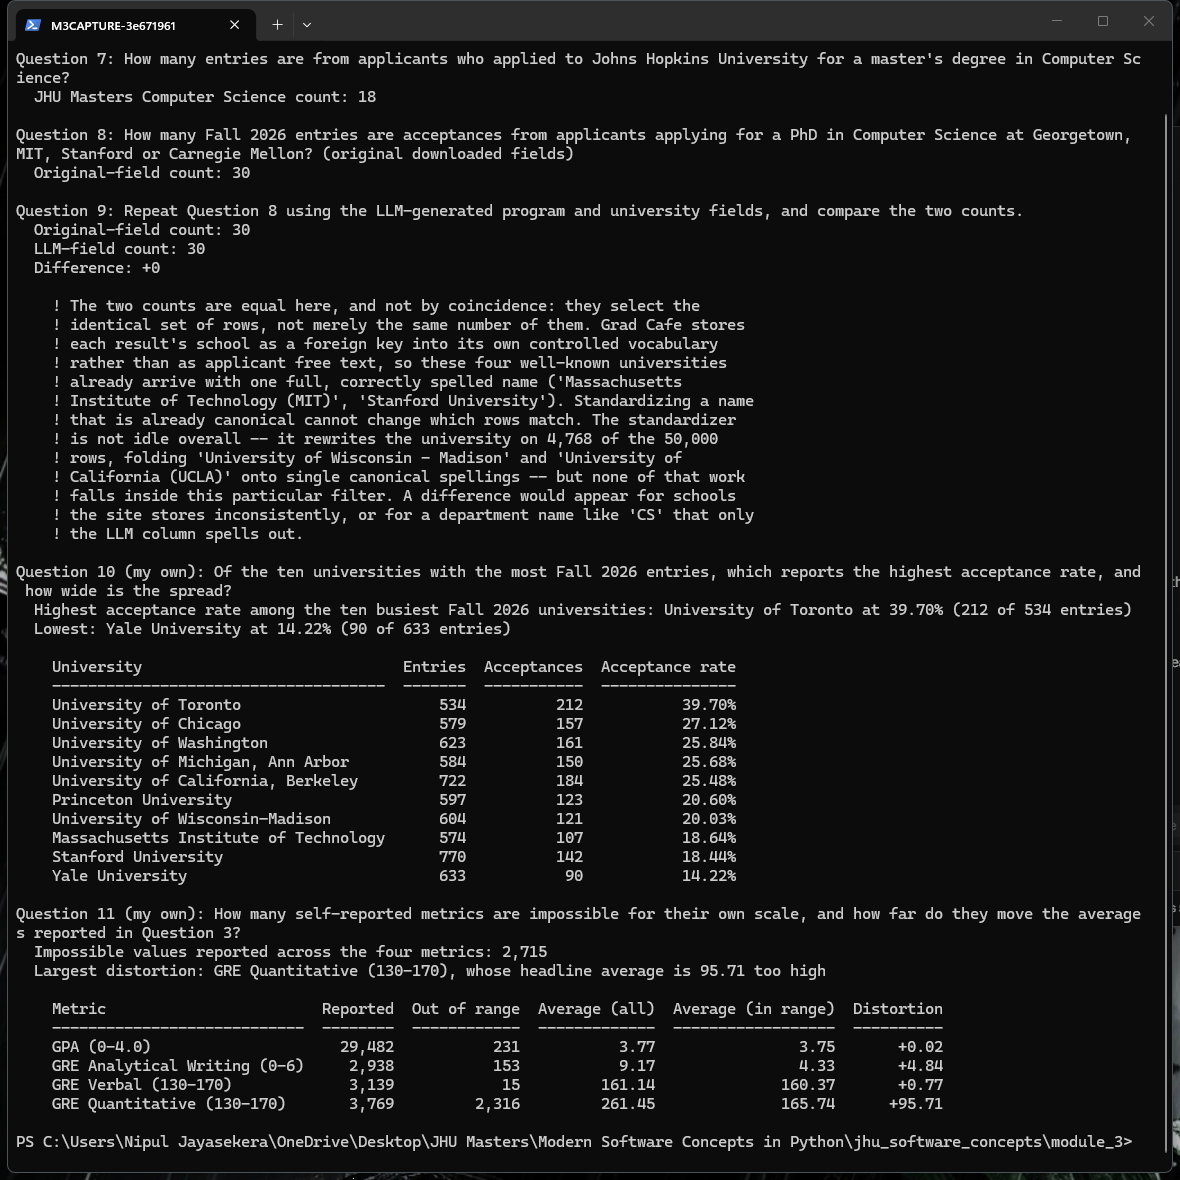
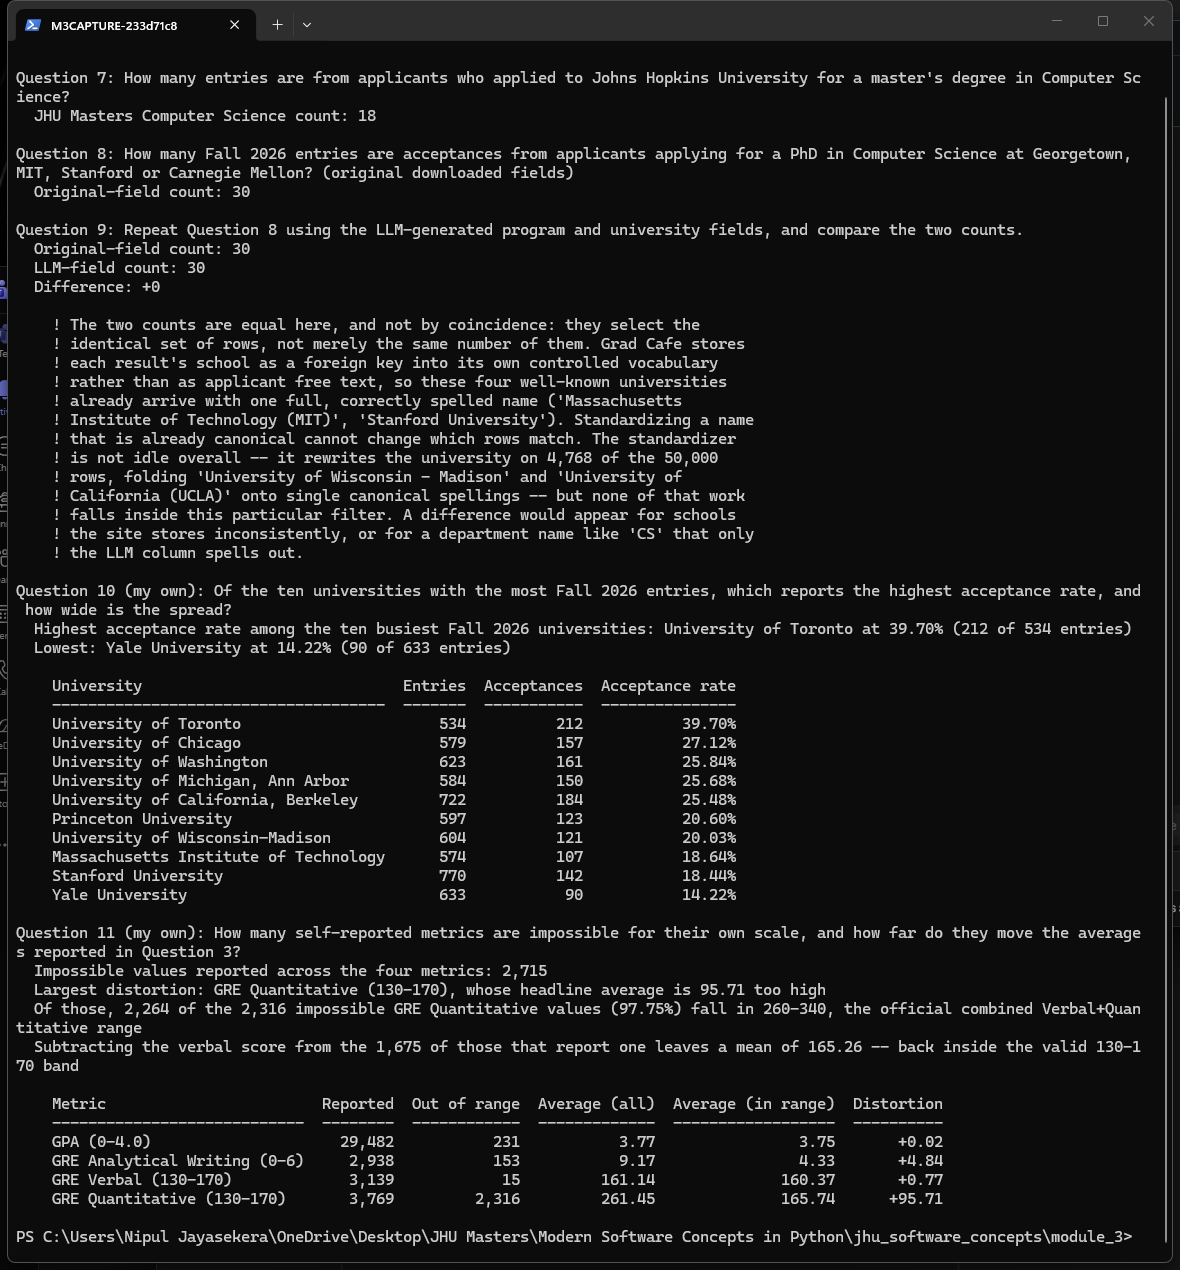
prove the impossible GRE scores are mis-entered totals
The GRE reports Verbal and Quantitative on 130-170 each and a combined
Verbal+Quantitative total on 260-340. That last range is exactly where the
second mode of the Quantitative column sits, which turns what was an
inference into something testable.

Question 11 now runs a second statement to test it, and both predictions
hold: 2,264 of the 2,316 impossible values (97.75%) land inside the
official 260-340 total band, and of the 1,675 that also report a verbal
score separately, subtracting it leaves a mean of 165.26 -- back inside
the legal 130-170 range, and within a point of the 165.74 mean of values
that were never out of range at all. If the column really held section
scores that subtraction would produce nonsense; instead it reconstructs a
plausible score. Only 52 values (1.4%) resist the explanation, and those
are obvious junk: 4.0, 999, 370.

So the Question 3 caveat no longer asserts the diagnosis, it cites the
scale and points at the evidence. limitations.pdf makes the same argument
from figures queried live rather than written down, so a later pull cannot
leave the essay claiming a number that has stopped being true.

The essay layout was retuned to keep the two required paragraphs on one
page now that it carries the extra evidence.

Changed region(s): [[0.0, 0.0, 1.0, 1.0], [0.7017, 0.1525, 0.8542, 0.1831], [0.5186, 0.1525, 0.6407, 0.1831]]

diff --git a/module_3/tools/build_pdfs.py b/module_3/tools/build_pdfs.py
@@ -90,11 +90,12 @@ def _styles() -> Dict[str, ParagraphStyle]:
             "caveat", parent=base["Normal"], fontSize=9, leading=13.2,
             textColor=colors.HexColor("#7c3a06"), alignment=TA_JUSTIFY,
         ),
-        # Sized so the two required paragraphs sit on a single page rather
-        # than spilling four lines onto a second one.
+        # Sized so the two required paragraphs sit on a single page rather than
+        # spilling a few lines onto a second one. Re-check this if the essay
+        # grows: it was retuned once when the GRE evidence was added to it.
         "essay": ParagraphStyle(
-            "essay", parent=base["Normal"], fontSize=10, leading=15.2,
-            textColor=INK, alignment=TA_JUSTIFY, spaceAfter=11,
+            "essay", parent=base["Normal"], fontSize=9.6, leading=14.1,
+            textColor=INK, alignment=TA_JUSTIFY, spaceAfter=10,
         ),
     }
 
@@ -181,6 +182,43 @@ def _footer(canvas: Any, doc: Any) -> None:
     canvas.drawString(1 * inch, 0.6 * inch, "{0} ({1})".format(AUTHOR, JHED))
     canvas.drawRightString(7.5 * inch, 0.6 * inch, "Page {0}".format(doc.page))
     canvas.restoreState()
+
+
+def _gre_diagnosis() -> dict:
+    """Live figures for the combined-total diagnosis quoted in limitations.pdf.
+
+    Queried rather than written down, so a Pull Data that changes the data
+    cannot leave the essay asserting a number that is no longer true.
+    """
+    import psycopg
+
+    with psycopg.connect(**db_config.connect_kwargs()) as connection:
+        with connection.cursor() as cursor:
+            cursor.execute(
+                """
+                SELECT COUNT(*) FILTER (WHERE gre IS NOT NULL
+                                          AND (gre < 130 OR gre > 170)),
+                       COUNT(*) FILTER (WHERE gre BETWEEN 260 AND 340),
+                       COUNT(*) FILTER (WHERE gre BETWEEN 260 AND 340
+                                          AND gre_v IS NOT NULL),
+                       ROUND(AVG(gre - gre_v) FILTER (
+                                 WHERE gre BETWEEN 260 AND 340
+                                   AND gre_v IS NOT NULL)::numeric, 2)
+                FROM applicants
+                """
+            )
+            impossible, in_total, with_verbal, implied = cursor.fetchone()
+
+    return {
+        "in_total": query_data.fmt_count(in_total),
+        # Not "share" -- the paragraph already uses that name for the share of
+        # reported values that are impossible, which is a different fraction.
+        "total_share": (
+            query_data.fmt_pct(100.0 * in_total / impossible) if impossible else "n/a"
+        ),
+        "with_verbal": query_data.fmt_count(with_verbal),
+        "implied": query_data.fmt_avg(implied),
+    }
 
 
 def _total_rows() -> str:
@@ -334,13 +372,18 @@ def build_limitations(results: Sequence[query_data.QuestionResult], path: Path) 
             "validates nothing an applicant types, and Question 11 counts the "
             "consequences: {out_of_range} of the {reported} reported GRE "
             "Quantitative values &mdash; {share} of them &mdash; are impossible on "
-            "a scale that runs 130 to 170. They are not random noise. They cluster "
-            "between 260 and 340, which is the range of a <i>combined</i> GRE "
-            "total, and many of those same rows fill in the verbal score "
-            "separately; a row reading gre = 323 alongside gre_v = 161 is an "
-            "applicant who answered a differently-worded question than the one the "
-            "field label implies. The effect on the headline number is not "
-            "marginal. Question 3 reports an average GRE Quantitative of "
+            "a scale that runs 130 to 170. They are not random noise. The GRE "
+            "reports Verbal and Quantitative on 130-170 each and a <i>combined</i> "
+            "total on 260-340, and {in_total} of these impossible values &mdash; "
+            "{total_share} of them &mdash; fall in exactly that second band. That reading "
+            "survives a second test: {with_verbal} of them also report a verbal "
+            "score separately, and subtracting it leaves a mean of {implied}, back "
+            "inside the legal range and within a point of the average of the "
+            "values that were never out of range at all. A row reading gre = 323 "
+            "beside gre_v = 161 is not a typo; it is an applicant answering a "
+            "differently-worded question than the one the field label implies. "
+            "The effect on the headline number is not marginal. Question 3 "
+            "reports an average GRE Quantitative of "
             "{avg_all}, which no human being has ever scored; restricted to values "
             "the scale permits, the same column averages {avg_in_range}. "
             "Analytical Writing behaves the same way, inflated from {aw_in_range} "
@@ -361,6 +404,7 @@ def build_limitations(results: Sequence[query_data.QuestionResult], path: Path) 
         ).format(
             out_of_range=gre_q[2],
             reported=gre_q[1],
+            **_gre_diagnosis(),
             share="{0:.0f} per cent".format(
                 100 * int(gre_q[2].replace(",", "")) / int(gre_q[1].replace(",", ""))
             ),
@@ -385,8 +429,8 @@ def build_limitations(results: Sequence[query_data.QuestionResult], path: Path) 
 
     document = SimpleDocTemplate(
         str(path), pagesize=LETTER,
-        leftMargin=1.0 * inch, rightMargin=1.0 * inch,
-        topMargin=0.85 * inch, bottomMargin=0.8 * inch,
+        leftMargin=0.92 * inch, rightMargin=0.92 * inch,
+        topMargin=0.8 * inch, bottomMargin=0.75 * inch,
         title="What This Data Can and Cannot Tell Us", author=AUTHOR,
     )
     document.build(story, onFirstPage=_footer, onLaterPages=_footer)

diff --git a/module_3/query_data.py b/module_3/query_data.py
@@ -97,14 +97,18 @@ def use_utf8_console() -> None:
 QUESTION_3_CAVEAT = (
     "These are the averages of exactly what applicants reported, which is "
     "what the question asks for -- but two of them are not usable as test "
-    "scores. The GRE Quantitative field is bimodal: most values sit in the "
-    "valid 130-170 band, while a large minority fall between 260 and 340, "
-    "because those applicants typed their combined GRE total into the box "
-    "the site labels only 'GRE'. The Analytical Writing average is inflated "
-    "the same way by placeholder values of 99.99 on a scale that stops at 6. "
-    "Question 11 counts these and gives the averages restricted to values "
-    "each scale actually permits; limitations.pdf discusses what follows "
-    "from it."
+    "scores. The GRE reports Verbal and Quantitative on 130-170 each, a "
+    "combined Verbal+Quantitative total on 260-340, and Analytical Writing "
+    "on 0-6. The Quantitative column here is bimodal, and the second mode "
+    "falls in exactly the 260-340 band: those applicants entered their "
+    "combined total into the box the site labels only 'GRE'. Two further "
+    "checks in Question 11 confirm that rather than assume it -- almost all "
+    "of the impossible values land inside the official total range, and "
+    "subtracting the verbal score the same rows report leaves a mean back "
+    "inside 130-170. Analytical Writing is inflated the same way by "
+    "placeholder values of 99.99 on a scale that stops at 6. Question 11 "
+    "also gives the averages restricted to values each scale permits; "
+    "limitations.pdf discusses what follows from it."
 )
 
 QUESTION_9_CAVEAT = (
@@ -546,7 +550,27 @@ SELECT 'GRE Analytical Writing (0-6)',
        ROUND(AVG(gre_aw) FILTER (WHERE gre_aw BETWEEN 0 AND 6)::numeric, 2)
 FROM applicants;
 """
+
+    # A second statement, because the impossible GRE Quantitative values are not
+    # random noise and saying so needs evidence rather than assertion. The GRE
+    # reports Verbal and Quantitative on 130-170 each and a *combined* total on
+    # 260-340; if these values are combined totals entered in the wrong box, they
+    # should sit in that second band, and subtracting the verbal score the same
+    # row reports should leave a plausible section score.
+    diagnosis_sql = """
+SELECT COUNT(*) FILTER (WHERE gre IS NOT NULL AND (gre < 130 OR gre > 170)) AS impossible,
+       COUNT(*) FILTER (WHERE gre BETWEEN 260 AND 340)                      AS in_total_range,
+       COUNT(*) FILTER (WHERE gre BETWEEN 260 AND 340 AND gre_v IS NOT NULL) AS with_verbal,
+       ROUND(AVG(gre - gre_v) FILTER (
+                 WHERE gre BETWEEN 260 AND 340 AND gre_v IS NOT NULL)::numeric, 2)
+                                                                            AS implied_quant
+FROM applicants;
+"""
+
     rows = _rows(connection, sql)
+    impossible, in_total_range, with_verbal, implied_quant = _row(
+        connection, diagnosis_sql
+    )
 
     table_rows = []
     worst_metric = None
@@ -581,6 +605,22 @@ FROM applicants;
                 worst_metric, fmt_avg(abs(worst_shift))
             )
         )
+    if impossible and in_total_range:
+        answer_lines.append(
+            "Of those, {0} of the {1} impossible GRE Quantitative values ({2}) fall in "
+            "260-340, the official combined Verbal+Quantitative range".format(
+                fmt_count(in_total_range),
+                fmt_count(impossible),
+                fmt_pct(100.0 * in_total_range / impossible),
+            )
+        )
+    if with_verbal and implied_quant is not None:
+        answer_lines.append(
+            "Subtracting the verbal score from the {0} of those that report one "
+            "leaves a mean of {1} -- back inside the valid 130-170 band".format(
+                fmt_count(with_verbal), fmt_avg(implied_quant)
+            )
+        )
 
     return QuestionResult(
         number=11,
@@ -589,7 +629,11 @@ FROM applicants;
             "and how far do they move the averages reported in Question 3?"
         ),
         answer_lines=answer_lines,
-        sql=sql.strip(),
+        sql=(
+            sql.strip()
+            + "\n\n-- and, to test what those impossible values actually are:\n"
+            + diagnosis_sql.strip()
+        ),
         explanation=(
             "Grad Cafe validates nothing an applicant types, so the table holds "
             "GRE Analytical Writing scores of 99.99 and GPAs on a 10-point scale. "
@@ -599,7 +643,15 @@ FROM applicants;
             "those two averages -- that is, the amount of Question 3's answer "
             "that is an artefact of unvalidated input rather than a fact about "
             "applicants. UNION ALL rather than UNION so that two metrics with "
-            "identical counts are not silently collapsed into one row."
+            "identical counts are not silently collapsed into one row. The "
+            "second statement then tests what the impossible values are rather "
+            "than merely counting them: the GRE reports Verbal and Quantitative "
+            "on 130-170 each and a combined total on 260-340, so if these are "
+            "totals typed into the wrong box they should land in that second "
+            "band -- and subtracting the verbal score the same row reports "
+            "should leave a believable section score. Both predictions hold, "
+            "which is why the caveat on Question 3 states this as a diagnosis "
+            "rather than a guess."
         ),
         table={
             "columns": [

diff --git a/module_3/orm_queries.py b/module_3/orm_queries.py
@@ -476,6 +476,28 @@ def question_11(session: Session) -> QuestionResult:
 
     values = session.execute(statement).one()
 
+    # A second statement, mirroring the raw-SQL file: the impossible GRE
+    # Quantitative values are not random noise, and saying so needs evidence.
+    # Verbal and Quantitative are each reported on 130-170 and the combined total
+    # on 260-340, so a total typed into the Quantitative box should land in that
+    # second band -- and subtracting the verbal score the same row reports should
+    # leave a believable section score.
+    in_total_range = Applicant.gre.between(260, 340)
+    impossible_gre = and_(
+        Applicant.gre.is_not(None),
+        or_(Applicant.gre < 130, Applicant.gre > 170),
+    )
+    has_verbal = and_(in_total_range, Applicant.gre_v.is_not(None))
+
+    impossible, in_range_total, with_verbal, implied_quant = session.execute(
+        select(
+            _count_where(impossible_gre),
+            _count_where(in_total_range),
+            _count_where(has_verbal),
+            _avg2(case((has_verbal, Applicant.gre - Applicant.gre_v), else_=None)),
+        ).select_from(Applicant)
+    ).one()
+
     table_rows: List[List[str]] = []
     total_out_of_range = 0
     worst_metric: Optional[str] = None
@@ -515,6 +537,22 @@ def question_11(session: Session) -> QuestionResult:
                 worst_metric, fmt_avg(abs(worst_shift))
             )
         )
+    if impossible and in_range_total:
+        answer_lines.append(
+            "Of those, {0} of the {1} impossible GRE Quantitative values ({2}) fall in "
+            "260-340, the official combined Verbal+Quantitative range".format(
+                fmt_count(in_range_total),
+                fmt_count(impossible),
+                fmt_pct(100.0 * in_range_total / impossible),
+            )
+        )
+    if with_verbal and implied_quant is not None:
+        answer_lines.append(
+            "Subtracting the verbal score from the {0} of those that report one "
+            "leaves a mean of {1} -- back inside the valid 130-170 band".format(
+                fmt_count(with_verbal), fmt_avg(implied_quant)
+            )
+        )
 
     return QuestionResult(
         number=11,
@@ -529,7 +567,9 @@ def question_11(session: Session) -> QuestionResult:
             "list of (column, valid-range) pairs and selected in one pass. Where "
             "the handwritten version repeats a near-identical SELECT four times "
             "in a UNION ALL, here the repetition is a loop -- adding a fifth "
-            "metric would be one more tuple."
+            "metric would be one more tuple. A second statement then tests what "
+            "the impossible values are rather than merely counting them, using "
+            "the same between() and case() expressions."
         ),
         table={
             "columns": [

diff --git a/module_3/README.md b/module_3/README.md
@@ -177,7 +177,7 @@ and both it and these numbers move together.)
 | 8 | CS PhD acceptances at the four universities (original fields) | 30 |
 | 9 | Same, using the LLM fields | 30 (difference: +0) |
 | 10 | *(my own)* Highest acceptance rate among the ten busiest Fall 2026 universities | University of Toronto, 39.70% |
-| 11 | *(my own)* Impossible self-reported values | 2,715 |
+| 11 | *(my own)* Impossible self-reported values | 2,715 (97.75% of the GRE ones are mis-entered totals) |
 
 Two of these need a word of explanation, and both are in `query_results.pdf` and
 on the web page as well.
@@ -188,13 +188,30 @@ on the web page as well.
 nonetheless the correct answer to the question as asked — the mean of every value
 applicants supplied — and it is reported as such rather than quietly cleaned.
 
-The column is **bimodal**. Of 3,769 reported values, roughly 1,450 sit in the
-valid 130–170 band and **2,316 fall between 260 and 340**, because those
-applicants typed their *combined* GRE total into the box Grad Cafe labels only
-"GRE". The giveaway is that many of them also filled in the verbal field
-separately — `gre = 323` alongside `gre_v = 161` is a combined total, not a
-section score. Analytical Writing is distorted the same way by placeholder
-values of `99.99` on a scale that stops at 6.
+The GRE is scored on three scales: Verbal 130–170, Quantitative 130–170, and
+Analytical Writing 0–6, with a **combined Verbal+Quantitative total reported on
+260–340**. That last range is the whole explanation.
+
+The Quantitative column here is **bimodal**, and the second mode falls in exactly
+the combined-total band. Question 11 tests this rather than asserting it, and
+both predictions hold:
+
+| Check | Result |
+|---|---|
+| Impossible values (outside 130–170) | 2,316 of 3,769 reported |
+| ...that land inside the official 260–340 total range | **2,264 — 97.75%** |
+| ...of those, also reporting a separate verbal score | 1,675 |
+| Their mean once verbal is subtracted | **165.26** |
+
+If `gre` really held a section score, subtracting verbal from it would produce
+nonsense. Instead it reconstructs a plausible quantitative score — within a point
+of the 165.74 mean of the values that were never out of range at all. So
+`gre = 323` beside `gre_v = 161` is not a typo; it is an applicant answering a
+differently-worded question than the field label implies. Only **52 values
+(1.4%)** resist the explanation, and those are obvious junk — `4.0`, `999`, `370`.
+
+Analytical Writing is distorted the same way by placeholder values of `99.99` on
+a scale that stops at 6.
 
 Restricted to values each scale actually permits, the averages are **165.74** and
 **4.33** — both entirely ordinary. Question 11 computes exactly this comparison,
